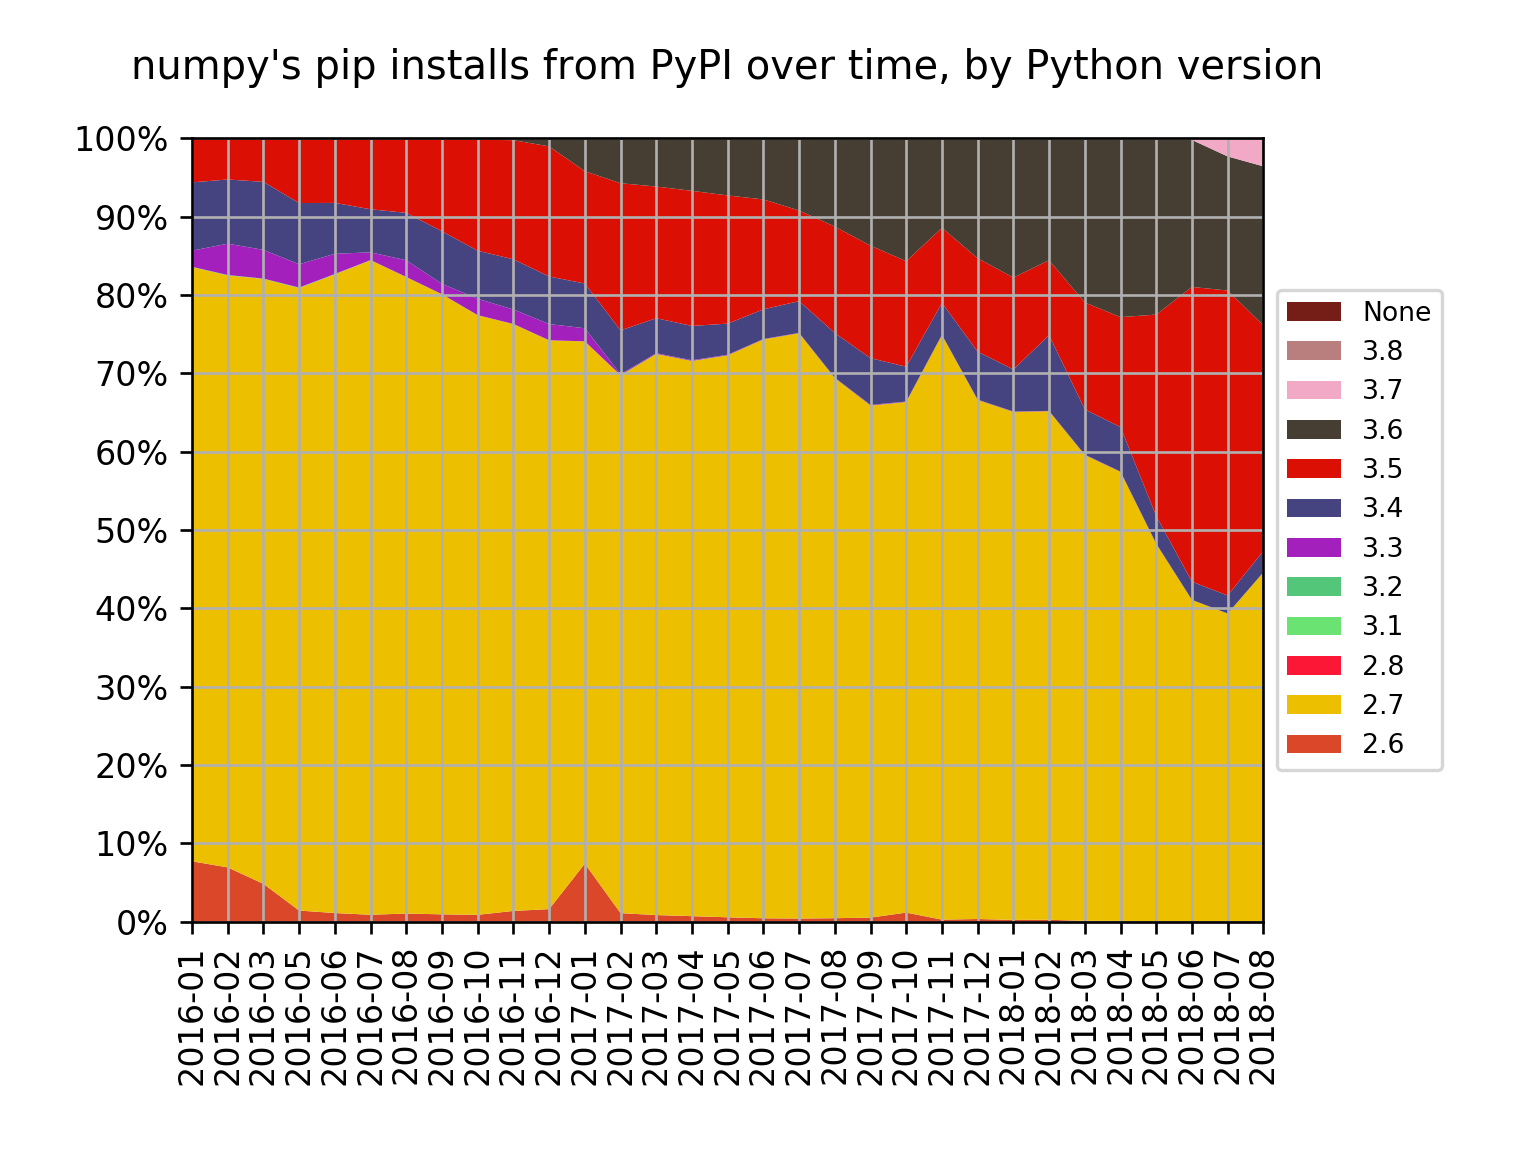
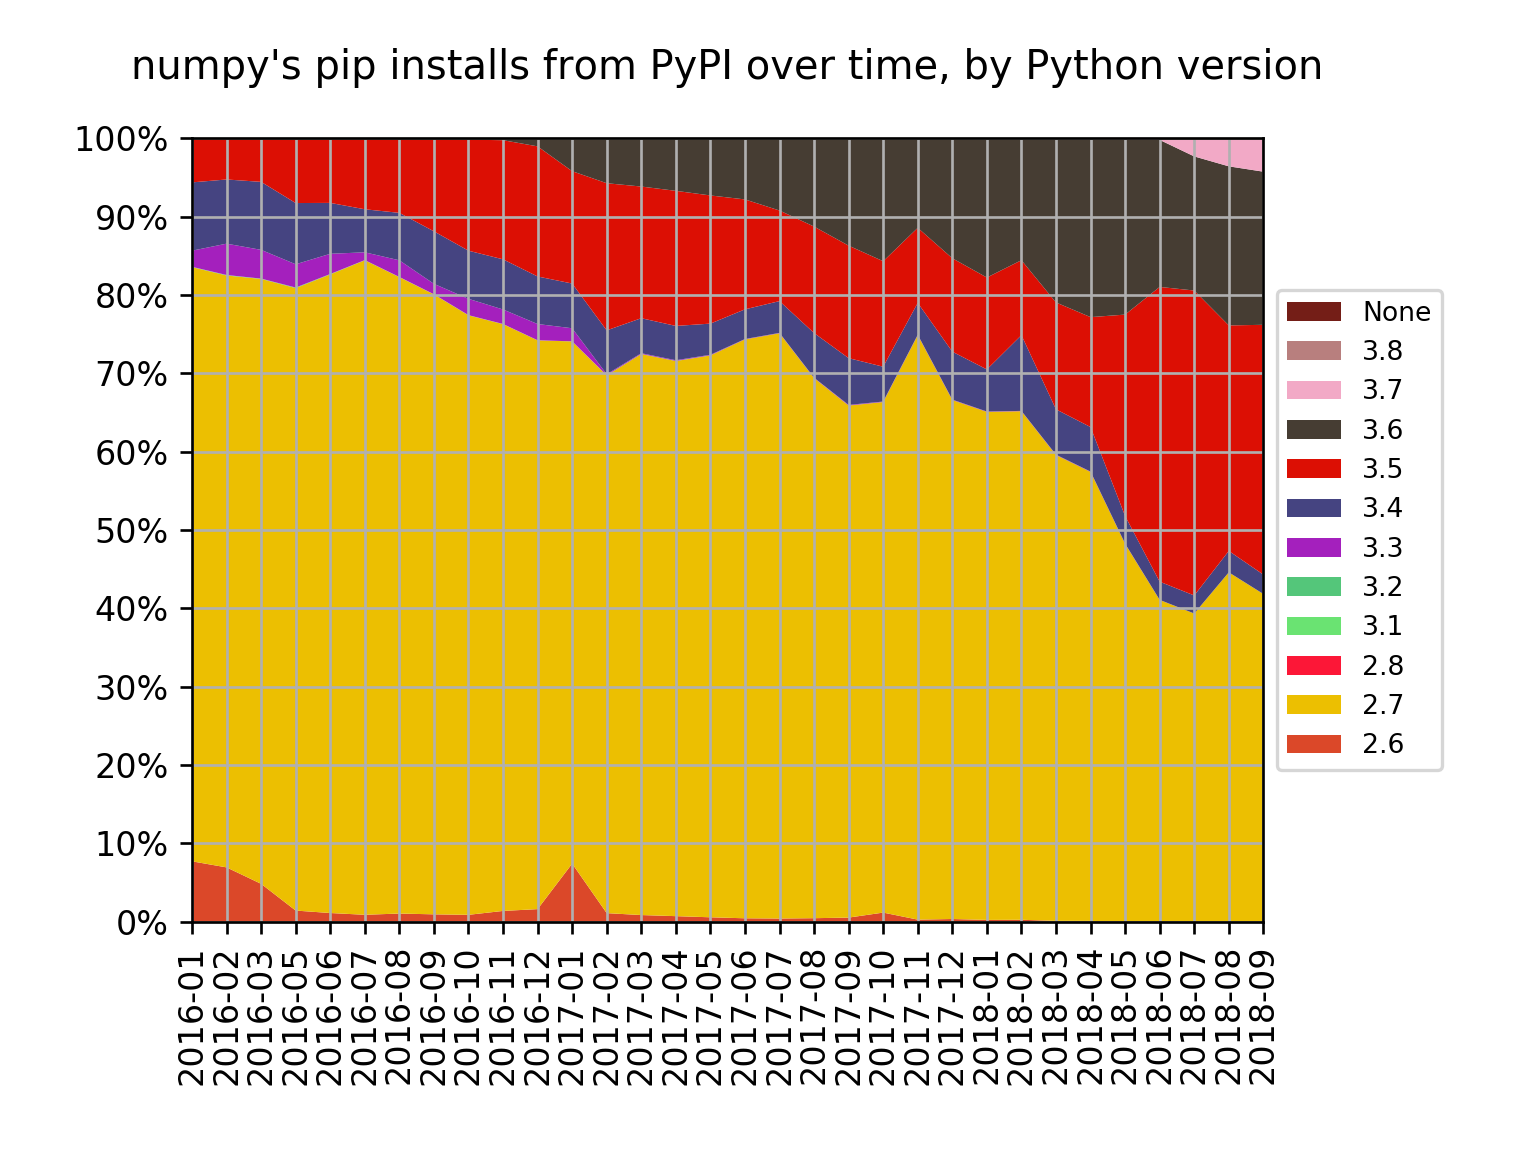
Add 2018-09 data

Changed region(s): [[0.125, 0.125, 0.8438, 0.9375]]

diff --git a/README.md b/README.md
@@ -22,7 +22,7 @@ in a spreadsheet, and can generate a chart using Matplotlib.
 ## Examples
 
 Here the pip installs for all packages from the Python Package Index (PyPI),
-between January 2016 and July 2018:
+from January 2016 onwards:
 
 ![Chart showing pip installs for Python 3 increasing from under 10% to around 35%](data/pip-install-all.png)
 
